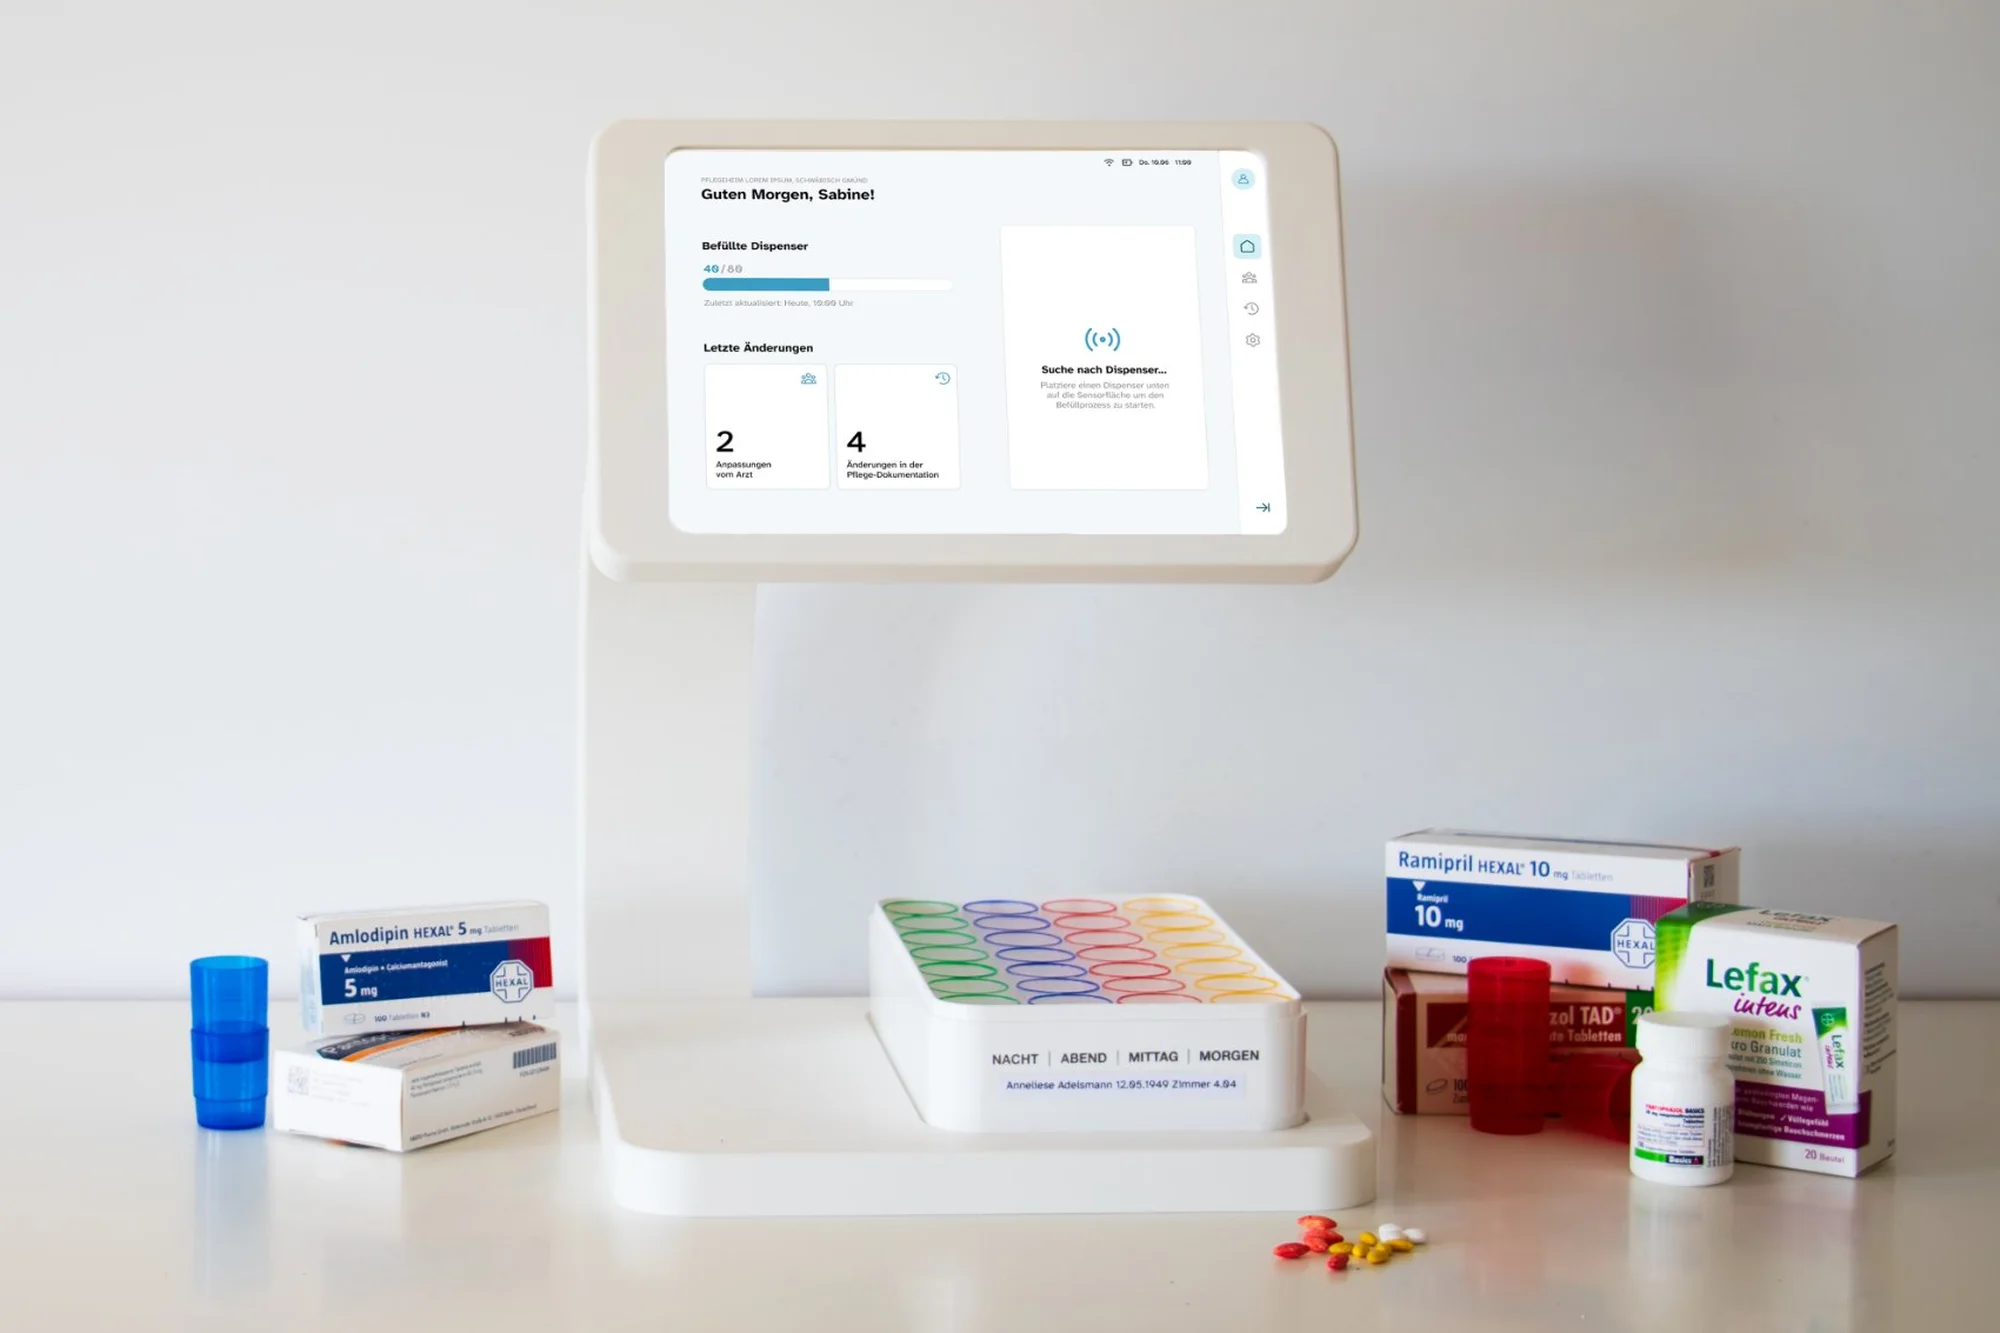
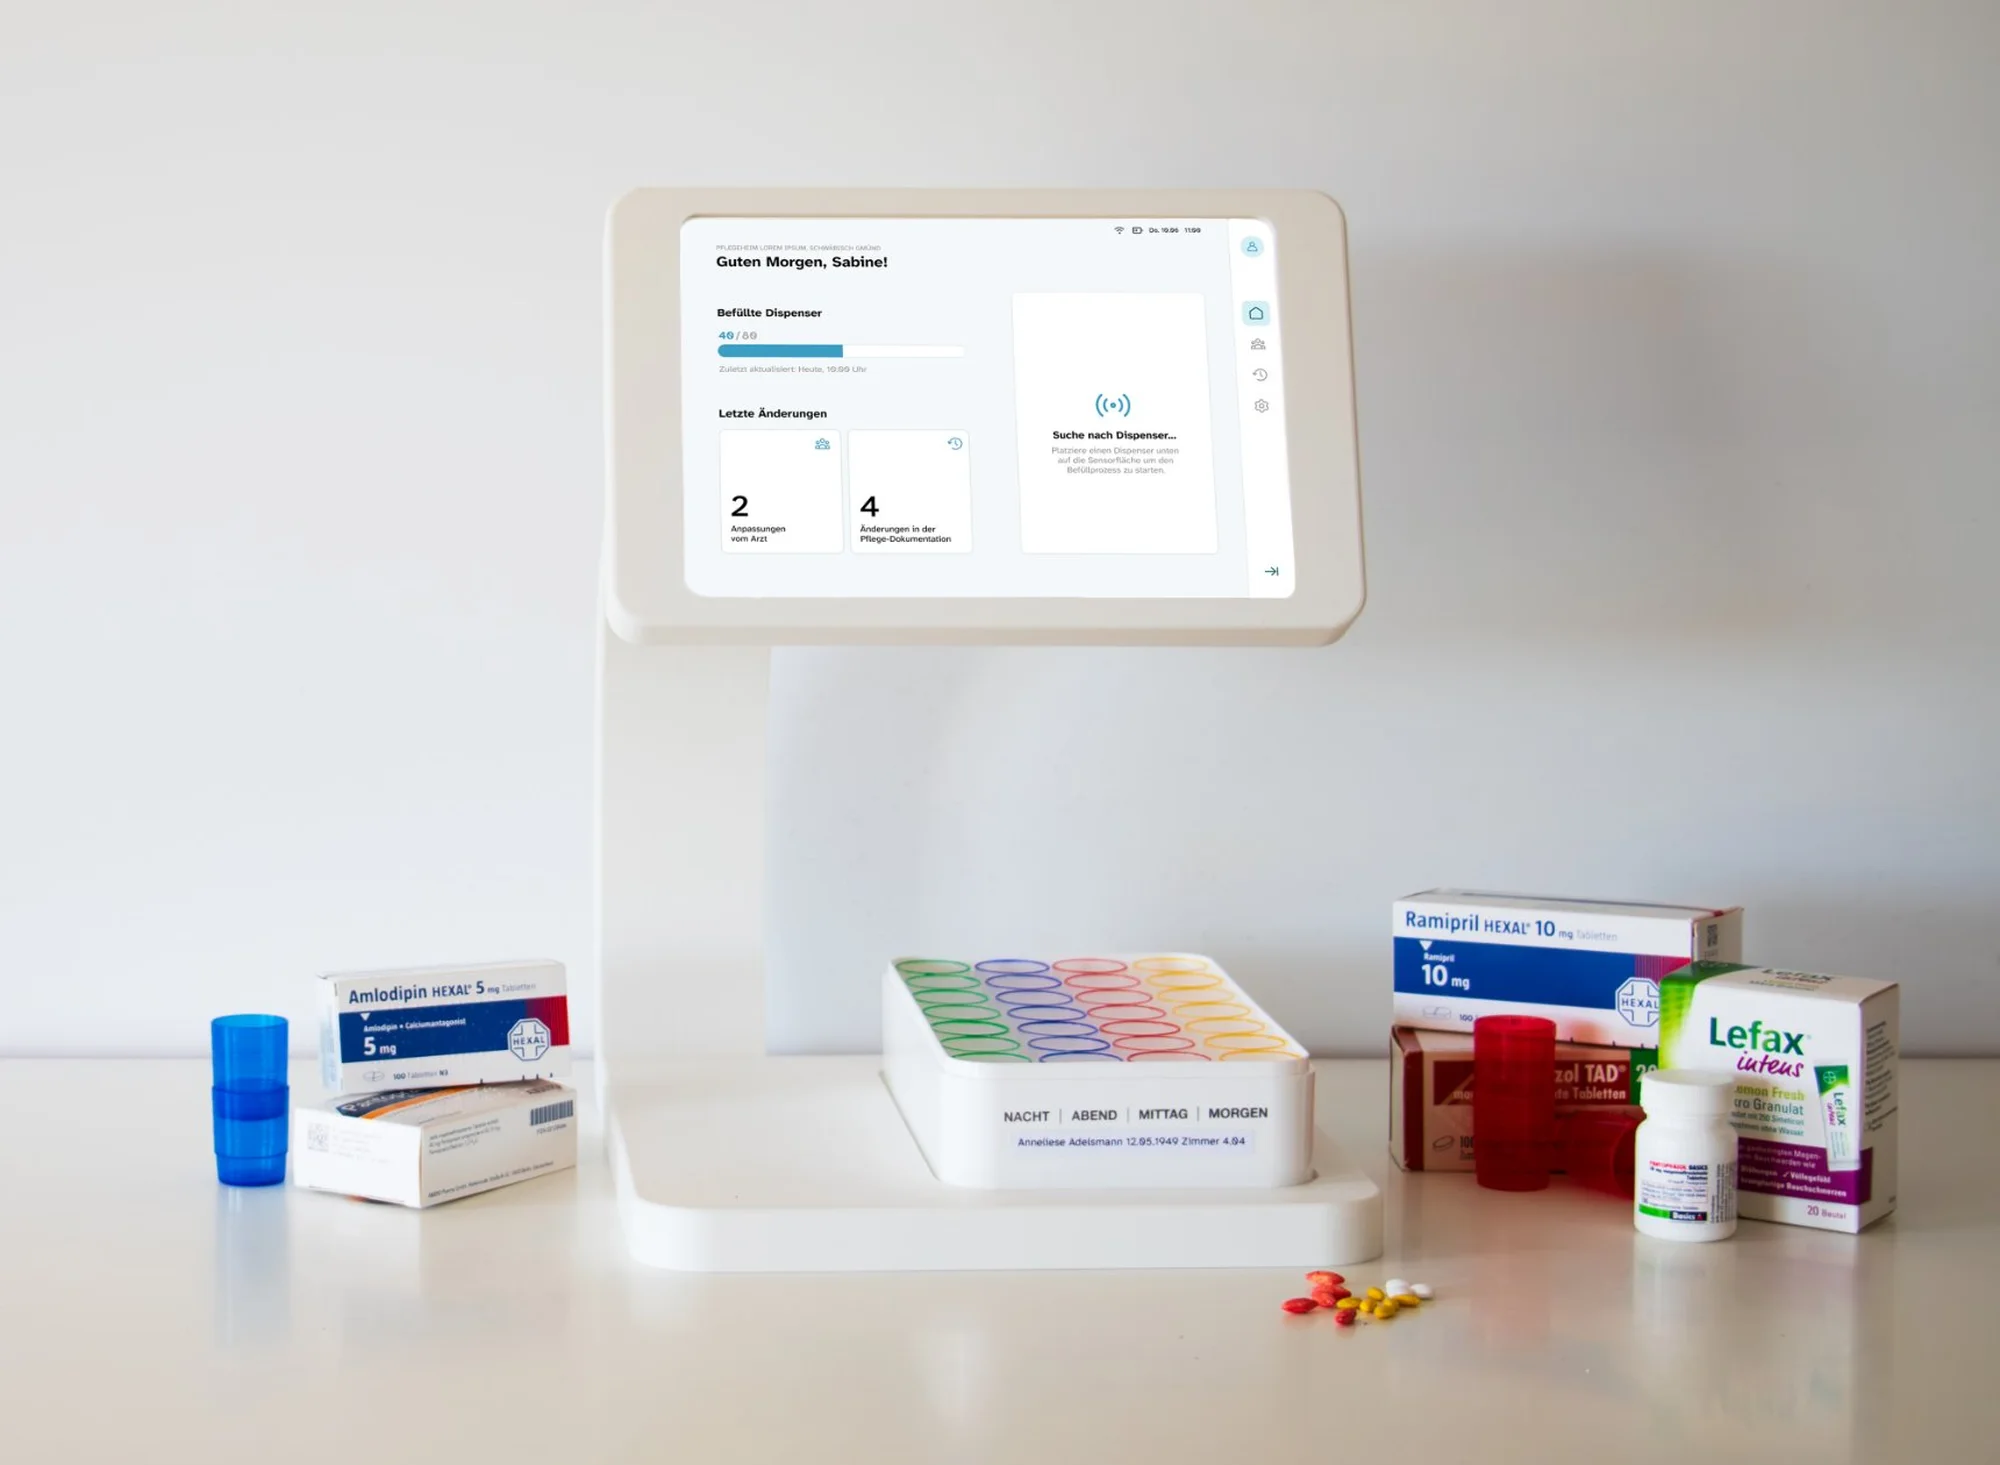
cura-Titelbild: mehr Luft oben und unten, damit beim Parallax nichts abgeschnitten wird
Claude-Session: https://claude.ai/code/session_01VtGFQTKmiNLDWvSYZt9vNu

diff --git a/pages/index.vue b/pages/index.vue
@@ -117,7 +117,7 @@ const nr = (i: number) => String(i + 1).padStart(2, "0");
  * Ab dem 5. Projekt wiederholt sich das Muster.
  */
 const layouts = [
-  { cls: "tile--a", ratio: "3 / 2", speed: 0.06, drift: -0.07 },
+  { cls: "tile--a", ratio: "16 / 10", speed: 0.06, drift: -0.07 },
   { cls: "tile--b", ratio: "5 / 4", speed: -0.05, drift: 0.06 },
   { cls: "tile--c", ratio: "1 / 1", speed: 0.05, drift: -0.05 },
   { cls: "tile--d", ratio: "16 / 10", speed: -0.06, drift: 0.07 },

diff --git a/content/projects/cura.ts b/content/projects/cura.ts
@@ -30,7 +30,7 @@ const project: Project = {
   cover: {
     src: "/img/cura/product.webp",
     w: 2000,
-    h: 1333,
+    h: 1465,
     alt: {
       de: "cura: Tablet auf einem weißen Ständer, darunter der Dispenser mit farbigen Fächern, daneben Medikamentenpackungen",
       en: "cura: a tablet on a white stand above the dispenser with coloured compartments, medication packs next to it",
